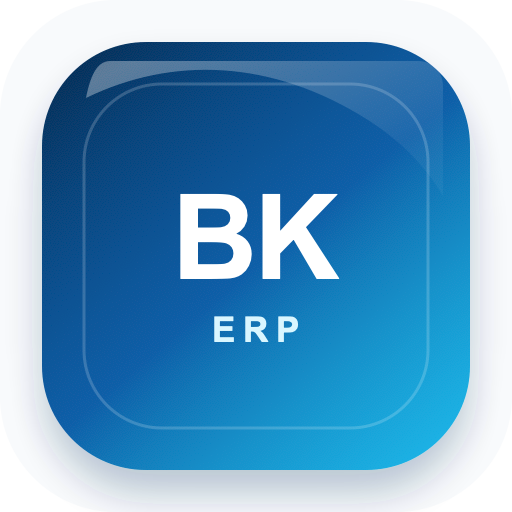
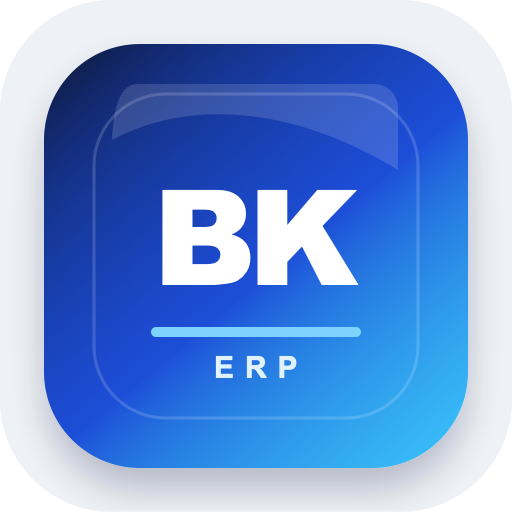
update

diff --git a/backend/app/static/css/app-splash.css b/backend/app/static/css/app-splash.css
@@ -1,0 +1,149 @@
+/* ==========================================================
+   BKNR ERP APP SPLASH
+   Premium launch card with daily business motivation quote.
+========================================================== */
+
+:root {
+    --splash-bg:
+        radial-gradient(circle at 20% 18%, rgba(37, 99, 235, 0.28), transparent 30%),
+        radial-gradient(circle at 78% 74%, rgba(20, 184, 166, 0.18), transparent 28%),
+        linear-gradient(135deg, #061223 0%, #0f172a 48%, #111827 100%);
+    --splash-card: rgba(15, 23, 42, 0.76);
+    --splash-border: rgba(255, 255, 255, 0.14);
+    --splash-text: #f8fafc;
+    --splash-muted: #94a3b8;
+    --splash-accent: #38bdf8;
+}
+
+#appSplash {
+    position: fixed;
+    inset: 0;
+    z-index: 1000000;
+    display: grid;
+    place-items: center;
+    padding: 24px;
+    background: var(--splash-bg);
+    color: var(--splash-text);
+    font-family: 'Plus Jakarta Sans', 'Inter', sans-serif;
+    opacity: 1;
+    visibility: visible;
+    transition: opacity 0.45s ease, visibility 0.45s ease;
+}
+
+#appSplash.hide {
+    opacity: 0;
+    visibility: hidden;
+    pointer-events: none;
+}
+
+.app-splash-card {
+    width: min(420px, calc(100vw - 36px));
+    padding: 34px 30px 30px;
+    border: 1px solid var(--splash-border);
+    border-radius: 26px;
+    background:
+        linear-gradient(180deg, rgba(255, 255, 255, 0.08), rgba(255, 255, 255, 0.03)),
+        var(--splash-card);
+    box-shadow:
+        0 34px 90px rgba(0, 0, 0, 0.38),
+        inset 0 1px 0 rgba(255, 255, 255, 0.16);
+    text-align: center;
+    backdrop-filter: blur(22px) saturate(1.15);
+    -webkit-backdrop-filter: blur(22px) saturate(1.15);
+}
+
+.app-splash-logo-wrap {
+    position: relative;
+    width: 104px;
+    height: 104px;
+    margin: 0 auto 20px;
+    display: grid;
+    place-items: center;
+}
+
+.app-splash-logo-wrap::before,
+.app-splash-logo-wrap::after {
+    content: "";
+    position: absolute;
+    inset: -8px;
+    border-radius: 30px;
+    border: 1px solid rgba(56, 189, 248, 0.34);
+}
+
+.app-splash-logo-wrap::after {
+    inset: -15px;
+    border-color: rgba(20, 184, 166, 0.18);
+    animation: splashPulse 1.6s ease-in-out infinite;
+}
+
+.app-splash-logo {
+    position: relative;
+    width: 92px;
+    height: 92px;
+    border-radius: 26px;
+    box-shadow:
+        0 22px 46px rgba(14, 165, 233, 0.24),
+        0 0 0 1px rgba(255, 255, 255, 0.12);
+}
+
+.app-splash-company {
+    margin: 0;
+    font-size: 20px;
+    line-height: 1.2;
+    font-weight: 900;
+    letter-spacing: 0;
+}
+
+.app-splash-label {
+    margin-top: 6px;
+    font-size: 10px;
+    font-weight: 800;
+    letter-spacing: 1.8px;
+    text-transform: uppercase;
+    color: var(--splash-accent);
+}
+
+.app-splash-quote {
+    margin: 22px auto 0;
+    max-width: 330px;
+    min-height: 48px;
+    font-size: 13px;
+    line-height: 1.55;
+    font-weight: 650;
+    color: var(--splash-muted);
+}
+
+.app-splash-track {
+    position: relative;
+    width: 178px;
+    height: 3px;
+    margin: 24px auto 0;
+    overflow: hidden;
+    border-radius: 999px;
+    background: rgba(148, 163, 184, 0.22);
+}
+
+.app-splash-track span {
+    position: absolute;
+    inset: 0 auto 0 0;
+    width: 42%;
+    border-radius: inherit;
+    background: linear-gradient(90deg, #2563eb, #38bdf8, #14b8a6);
+    animation: splashTrack 1.05s cubic-bezier(.45, 0, .2, 1) infinite;
+}
+
+@keyframes splashPulse {
+    0%, 100% {
+        opacity: 0.42;
+        transform: scale(0.96);
+    }
+    50% {
+        opacity: 1;
+        transform: scale(1.04);
+    }
+}
+
+@keyframes splashTrack {
+    0% { transform: translateX(-112%); }
+    100% { transform: translateX(275%); }
+}

diff --git a/backend/app/static/js/app-splash.js b/backend/app/static/js/app-splash.js
@@ -1,0 +1,97 @@
+// ======================================================
+// BKNR ERP APP SPLASH
+// One business motivation quote for each day of the year.
+// ======================================================
+
+(function () {
+    const quoteOpeners = [
+        "Build the process before you chase the result",
+        "Small improvements compound into operational power",
+        "Clarity turns daily work into measurable progress",
+        "A disciplined team makes complex work look simple",
+        "Quality grows when every hand respects the next step",
+        "Strong businesses are built on repeatable habits",
+        "The best reports are born from clean daily entries",
+        "Focus converts effort into visible performance",
+        "Speed matters most when accuracy travels with it",
+        "Every batch is a chance to raise the standard",
+        "Good decisions begin with trusted data",
+        "Consistency is the quiet engine of growth",
+        "A clear dashboard creates a calmer business",
+        "Profit follows teams that measure the right things",
+        "Operational excellence is built one shift at a time"
+    ];
+
+    const quoteMiddles = [
+        "keep the numbers honest",
+        "protect the workflow",
+        "remove one delay",
+        "finish the important task first",
+        "make the handover cleaner",
+        "review the exception early",
+        "turn feedback into action",
+        "track what truly matters",
+        "simplify the next decision",
+        "align people with priorities",
+        "close the loop today",
+        "make quality visible",
+        "convert activity into output",
+        "respect time and material",
+        "raise the baseline"
+    ];
+
+    const quoteClosers = [
+        "and the business moves with confidence.",
+        "and growth becomes easier to manage.",
+        "and tomorrow starts with less friction.",
+        "and the team earns trust faster.",
+        "and every department feels the lift.",
+        "and performance becomes predictable.",
+        "and leadership sees the truth sooner.",
+        "and execution gets sharper.",
+        "and waste loses room to hide.",
+        "and customers feel the discipline.",
+        "and cash flow gets stronger.",
+        "and the standard becomes culture.",
+        "and decisions become lighter.",
+        "and the day ends cleaner.",
+        "and progress becomes visible."
+    ];
+
+    function dayOfYear(date) {
+        const start = new Date(date.getFullYear(), 0, 0);
+        const diff = date - start + ((start.getTimezoneOffset() - date.getTimezoneOffset()) * 60000);
+        return Math.floor(diff / 86400000);
+    }
+
+    function dailyQuote(date) {
+        const day = dayOfYear(date) - 1;
+        const opener = quoteOpeners[day % quoteOpeners.length];
+        const middle = quoteMiddles[(Math.floor(day / quoteOpeners.length) + day) % quoteMiddles.length];
+        const closer = quoteClosers[(Math.floor(day / (quoteOpeners.length * quoteMiddles.length)) + day) % quoteClosers.length];
+        return `${opener}; ${middle}, ${closer}`;
+    }
+
+    function hideSplash() {
+        const splash = document.getElementById("appSplash");
+        if (!splash) return;
+        splash.classList.add("hide");
+        setTimeout(() => splash.remove(), 520);
+    }
+
+    document.addEventListener("DOMContentLoaded", function () {
+        const splash = document.getElementById("appSplash");
+        if (!splash) return;
+
+        const quoteEl = document.getElementById("appSplashQuote");
+        if (quoteEl) quoteEl.textContent = dailyQuote(new Date());
+
+        const minShowMs = 1250;
+        if (document.readyState === "complete") {
+            setTimeout(hideSplash, minShowMs);
+        } else {
+            window.addEventListener("load", () => setTimeout(hideSplash, minShowMs), { once: true });
+            setTimeout(hideSplash, 2600);
+        }
+    });
+})();

diff --git a/backend/app/templates/menu.html b/backend/app/templates/menu.html
@@ -558,8 +558,21 @@ iframe { flex: 1; border: none; width: 100%; height: 100%; background: transpare
 }
 </style>
 <link rel="stylesheet" href="/static/css/global-loader.css">
+<link rel="stylesheet" href="/static/css/app-splash.css">
 </head>
 <body>
+
+<div id="appSplash" aria-label="Opening workspace">
+    <div class="app-splash-card">
+        <div class="app-splash-logo-wrap">
+            <img class="app-splash-logo" src="/static/icon-192.png" alt="Company logo">
+        </div>
+        <h1 class="app-splash-company">{{ request.session.get('company_name', 'BKNR ERP') }}</h1>
+        <div class="app-splash-label">Enterprise Workspace</div>
+        <div class="app-splash-quote" id="appSplashQuote">Preparing your workspace.</div>
+        <div class="app-splash-track"><span></span></div>
+    </div>
+</div>
 
 <div class="sidebar-overlay" id="sidebarOverlay" onclick="toggleSidebar(false)"></div>
 
@@ -2021,5 +2034,6 @@ if ("serviceWorker" in navigator) {
 }
 </script>
 <script src="/static/js/global-loader.js"></script>
+<script src="/static/js/app-splash.js"></script>
 </body>
 </html>

diff --git a/backend/app/static/service-worker.js b/backend/app/static/service-worker.js
@@ -1,8 +1,11 @@
-const CACHE_NAME = "bknr-erp-v4";
+const CACHE_NAME = "bknr-erp-v6";
 const ASSETS = [
   "/",
   "/static/icon-192.png",
-  "/static/icon-512.png"
+  "/static/icon-512.png",
+  "/static/screenshot.png",
+  "/static/css/app-splash.css",
+  "/static/js/app-splash.js"
 ];
 
 self.addEventListener("install", (event) => {